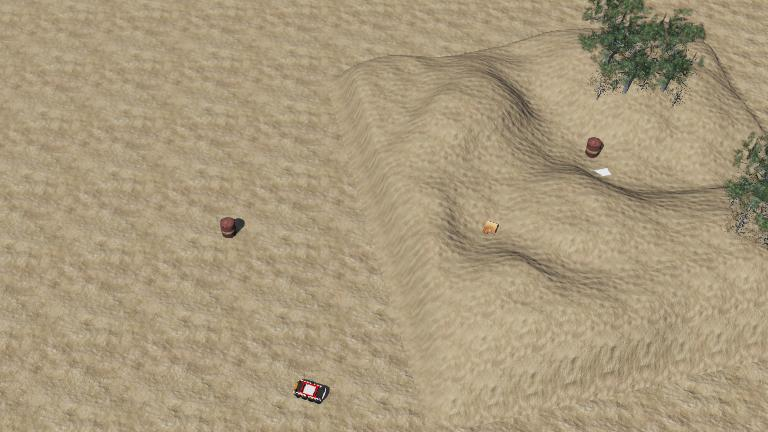
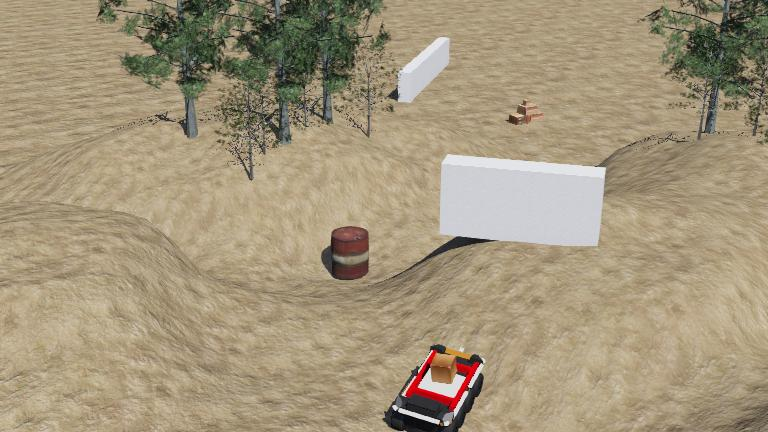
Added moose controller code to main controller, finishing pre-defined ruleset

diff --git a/controllers/mainController/mainController.py b/controllers/mainController/mainController.py
@@ -1,6 +1,6 @@
 """mainController controller."""
 
-from controller import Robot, Motor
+from controller import Robot, Motor, Compass, GPS, Keyboard
 import sys, os, random
 
 # Allow imports from ../lib/
@@ -11,6 +11,7 @@ import odometry
 import rl_integration   
 import numpy as np
 import copy
+import math
 
 class RobotState:
     def __init__(self, position_x=0.0, position_y=0.0, heading=0.0, has_cargo=True):
@@ -34,6 +35,15 @@ ROBOT_ACTIONS = {
 }
 
 MAX_SPEED = 10.0
+# Constants
+TIME_STEP = 16
+TARGET_POINTS_SIZE = 13
+DISTANCE_TOLERANCE = 1.5
+TURN_COEFFICIENT = 4.0
+
+# Enums/Constants
+X, Y, Z, ALPHA = 0, 1, 2, 3
+LEFT, RIGHT = 0, 1
 
 autopilot = True
 robot = Robot()
@@ -55,23 +65,149 @@ def robot_set_speed(left, right):
         motors[i + 4].setVelocity(right)
 
 
-def run_autopilot():
-    robot_set_speed(MAX_SPEED, MAX_SPEED)
+class Vector:
+    def __init__(self, u, v):
+        self.u = float(u)
+        self.v = float(v)
 
+targets = [
+    Vector(-2.762667, -23.877770)
+]
+current_target_index = 0
+autopilot = True
+old_autopilot = True
+old_key = -1
+
+def modulus_double(a, m):
+    return math.fmod(a, m) if a >= 0 else math.fmod(a, m) + m
+
+def norm(v):
+    return math.sqrt(v.u * v.u + v.v * v.v)
+
+def normalize(v):
+    n = norm(v)
+    if n != 0:
+        v.u /= n
+        v.v /= n
+
+def minus(v1, v2):
+    return Vector(v1.u - v2.u, v1.v - v2.v)
+
+def robot_set_speed(left_speed, right_speed):
+    for i in range(4):
+        motors[i].setVelocity(left_speed)
+        motors[i + 4].setVelocity(right_speed)
+
+def check_keyboard():
+    global autopilot, old_autopilot, old_key
+
+    speeds = [0.0, 0.0]
+    key = robot.keyboard.getKey()
+
+    if key != -1:
+        key_char = chr(key) if key >= 0 else key
+
+        if key == Keyboard.UP:
+            speeds[LEFT] = MAX_SPEED
+            speeds[RIGHT] = MAX_SPEED
+            autopilot = False
+        elif key == Keyboard.DOWN:
+            speeds[LEFT] = -MAX_SPEED
+            speeds[RIGHT] = -MAX_SPEED
+            autopilot = False
+        elif key == Keyboard.RIGHT:
+            speeds[LEFT] = MAX_SPEED
+            speeds[RIGHT] = -MAX_SPEED
+            autopilot = False
+        elif key == Keyboard.LEFT:
+            speeds[LEFT] = -MAX_SPEED
+            speeds[RIGHT] = MAX_SPEED
+            autopilot = False
+        elif key_char == 'P':
+            if key != old_key:
+                position_3d = gps.getValues()
+                print(f"position: {{{position_3d[X]:.6f}, {position_3d[Y]:.6f}}}")
+        elif key_char == 'A':
+            if key != old_key:
+                autopilot = not autopilot
+
+    if autopilot != old_autopilot:
+        old_autopilot = autopilot
+        if autopilot:
+            print("auto control")
+        else:
+            print("manual control")
+
+    robot_set_speed(speeds[LEFT], speeds[RIGHT])
+    old_key = key
+
+def run_autopilot():
+    global current_target_index
+
+    speeds = [0.0, 0.0]
+
+    position_3d = gps.getValues()
+    north_3d = compass.getValues()
+
+    position = Vector(position_3d[X], position_3d[Y])
+    target = targets[current_target_index]
+
+    direction = minus(target, position)
+    distance = norm(direction)
+    normalize(direction)
+
+    robot_angle = math.atan2(north_3d[0], north_3d[1])
+    target_angle = math.atan2(direction.v, direction.u)
+    beta = modulus_double(target_angle - robot_angle, 2.0 * math.pi) - math.pi
+
+    if beta > 0:
+        beta = math.pi - beta
+    else:
+        beta = -beta - math.pi
+
+    if distance < DISTANCE_TOLERANCE:
+        current_target_index += 1
+        current_target_index %= TARGET_POINTS_SIZE
+        
+        suffix = "th"
+        if current_target_index == 1:
+            suffix = "st"
+        elif current_target_index == 2:
+            suffix = "nd"
+        elif current_target_index == 3:
+            suffix = "rd"
+            
+        print(f"{current_target_index}{suffix} target reached")
+        
+    else:
+        base_speed = MAX_SPEED - math.pi 
+        speeds[LEFT] = base_speed + TURN_COEFFICIENT * beta
+        speeds[RIGHT] = base_speed - TURN_COEFFICIENT * beta
+    print("Front 1 is ", distance_sensors["ds_front1"].getValue())
+    if ((distance_sensors["ds_front1"].getValue() < 200)):
+        print("Collision imineinfe")
+        robot_set_speed(MAX_SPEED, -MAX_SPEED)
+    else:
+        robot_set_speed(speeds[LEFT], speeds[RIGHT])
+    
 
 def get_action(state):
     index = 0
     heading = rl.heading_to_index(state.heading)
-    if ((distance_sensors["ds_right1"].getValue() < 200 and distance_sensors["ds_left1"].getValue() < 200) or (heading == 3 and distance_sensors["ds_front1"].getValue() > 200)):
+    print("Heading is ", heading)
+    if ((distance_sensors["ds_right1"].getValue() < 50 and distance_sensors["ds_left1"].getValue() < 50) or (heading == 3 and distance_sensors["ds_front1"].getValue() > 100)):
         index = 0
-    if ((distance_sensors["ds_front1"].getValue() < 200 or heading == 2 ) and distance_sensors["ds_left1"].getValue() > 200):
+    if ((distance_sensors["ds_front1"].getValue() < 100 or heading == 2 ) and distance_sensors["ds_left1"].getValue() > 50):
         index = 1
-    if ((distance_sensors["ds_front1"].getValue() < 200 or heading == 0 ) and distance_sensors["ds_right1"].getValue() > 200):
+    if ((distance_sensors["ds_front1"].getValue() < 100 or heading == 0 ) and distance_sensors["ds_right1"].getValue() > 50):
         index = 2
     else:
         index = random.randint(1,2)
     print("Index is ", index)
-    #rl_integration.execute_action_on_robot(index, robot_set_speed, MAX_SPEED)
+    print("DistanceSensor right1 ", distance_sensors["ds_right1"].getValue())
+    print("DistanceSensor front1 ", distance_sensors["ds_front1"].getValue())
+    print("DistanceSensor left1 ", distance_sensors["ds_left1"].getValue())
+    rl_integration.execute_action_on_robot(index, robot_set_speed, MAX_SPEED)
     return index
 
 
@@ -91,6 +227,8 @@ def main():
     global distance_sensors
     global touch_sensor
     global odom
+    global compass
+    global gps
 
     names = [
         "left motor 1", "left motor 2", "left motor 3", "left motor 4",
@@ -116,7 +254,7 @@ def main():
     compass = robot.getDevice("compass")
     gps.enable(timestep)
     compass.enable(timestep)
-    
+    robot.keyboard.enable(timestep)
     odom = odometry.Odometry()
     left_positions_init = [ps.getValue() for ps in position_sensors[:4]]
     right_positions_init = [ps.getValue() for ps in position_sensors[4:]]
@@ -143,23 +281,26 @@ def main():
         check_cargo()
         
         state = rl_integration.get_current_state_from_localization(gps, distance_sensors, odom)
-        print("The compass value is ", compass.getValues())
-        print("The state value is ", state.heading)
+
         #if (state.position_x + 24 > 50 or state.position_x + 24 < 0 or state.position_y + 24 > 50 or state.position_y + 24 < 0):
             #break
 
         if (previous_action != None and previous_state != None):
             has_collided = check_collision()
             cargo = check_cargo()
-
+        check_keyboard()
+        run_autopilot()
         #if (has_collided or cargo == False):
             #print("Collision detected")
             #break
 
-        previous_state = copy.deepcopy(state)
-        previous_action = get_action(state)
+        #previous_state = copy.deepcopy(state)
+        #previous_action = get_action(state)
 
     print("Q_table svaed")
 
 if __name__ == "__main__":
     main()
+    
+    
+    
